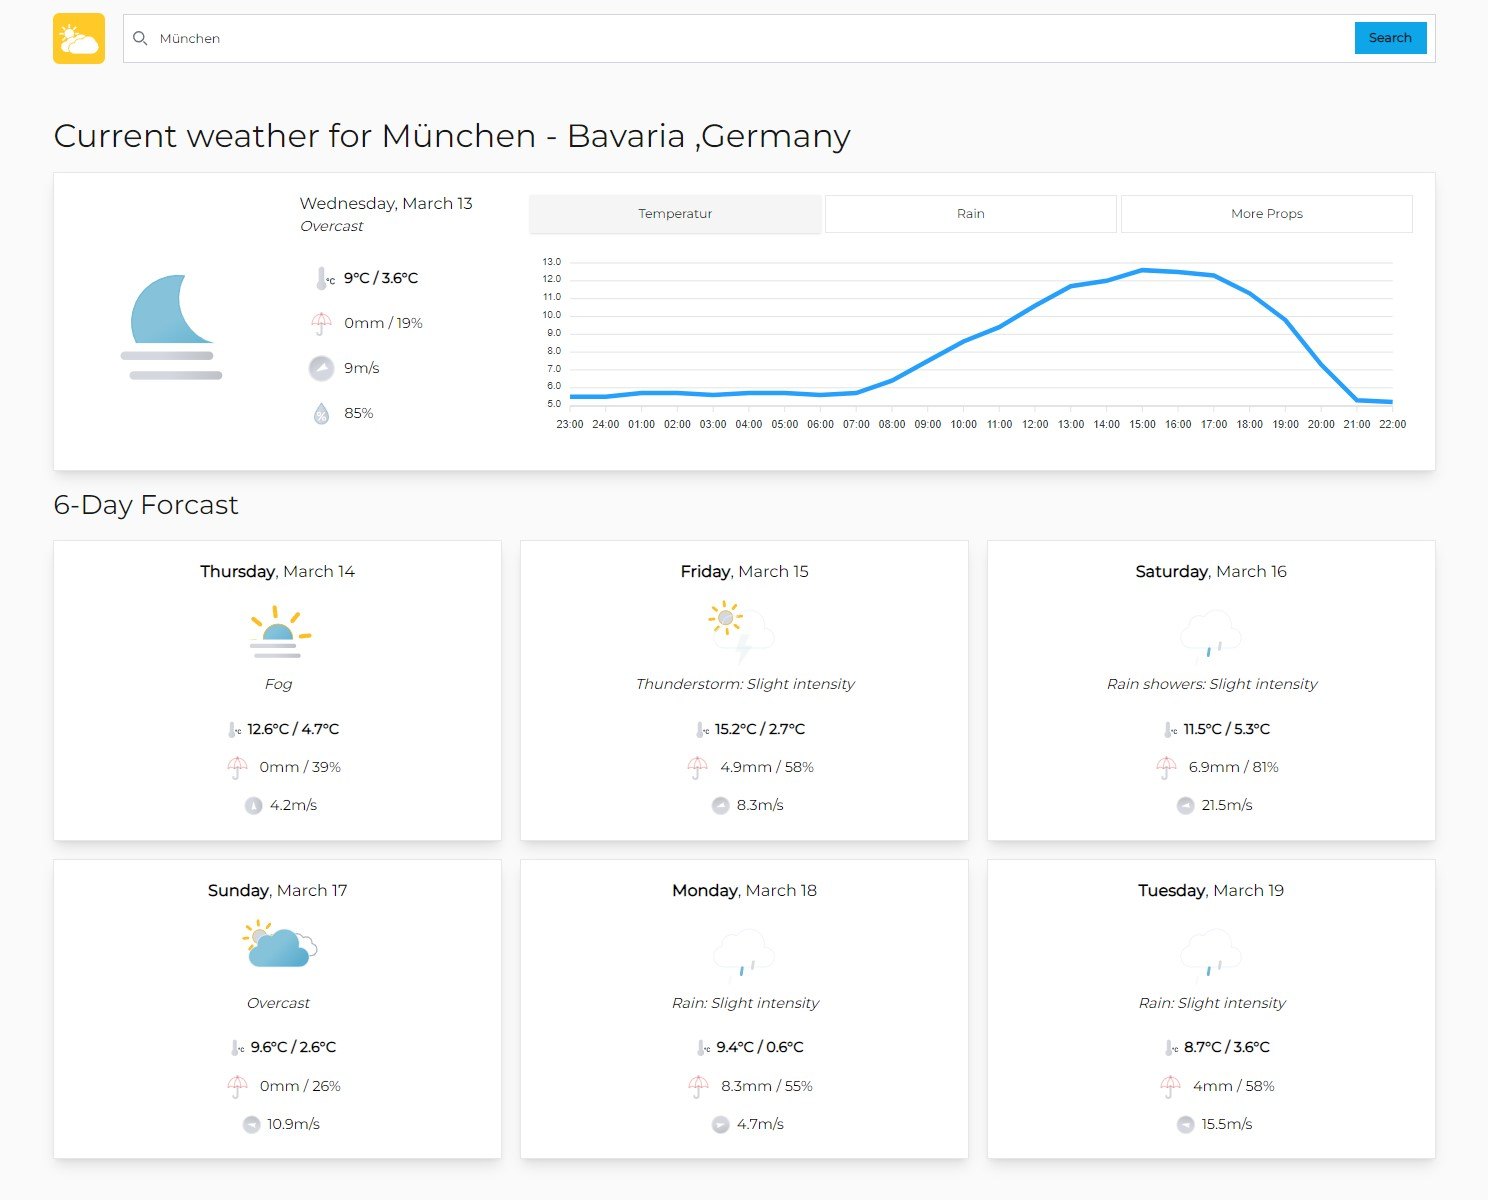
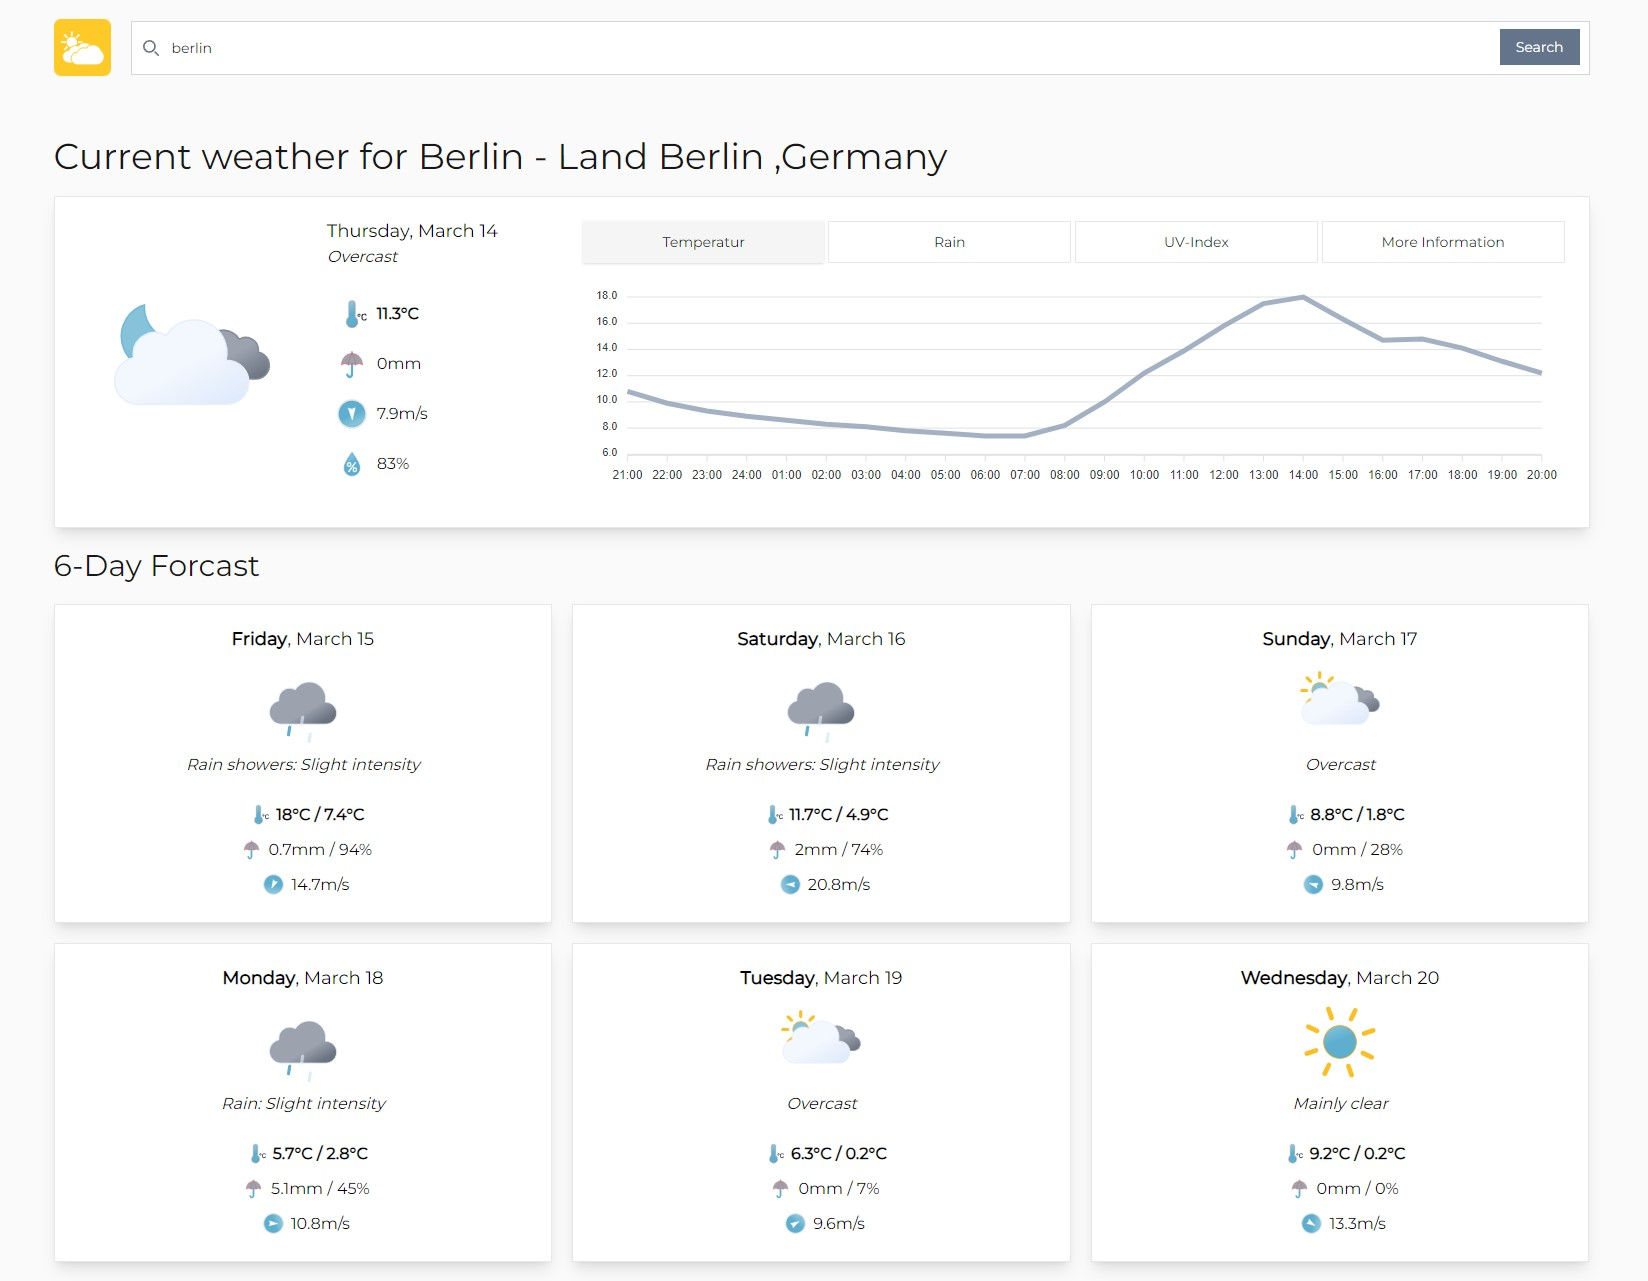
search-adjust

diff --git a/src/components/searchInput.tsx b/src/components/searchInput.tsx
@@ -33,14 +33,14 @@ export default function SearchInput({
           onChange={(e) => setSQuery(e.currentTarget.value)}
           type="search"
           id="loc-search"
-          className="block w-full p-4 ps-10 text-sm text-gray-900 border border-gray-300 bg-white focus:ring-slate-500 focus:border-slate-600 !outline-none"
+          className="block w-full p-4 ps-10 text-lg text-gray-900 border border-gray-300 bg-white focus:ring-slate-500 focus:border-slate-600 !outline-none"
           placeholder="Berlin, Amsterdam, Paris ..."
           required
           autoFocus
         />
         <button
           type="submit"
-          className="text-white absolute end-2.5 bottom-2.5 bg-slate-500 hover:bg-slate-600 focus:ring-4 focus:outline-none focus:ring-slate-300 text-sm px-4 py-2"
+          className="hidden md:block text-white absolute end-2.5 bottom-2.5 bg-slate-500 hover:bg-slate-600 focus:ring-4 focus:outline-none focus:ring-slate-300 text-sm px-4 py-2"
         >
           Search
         </button>
